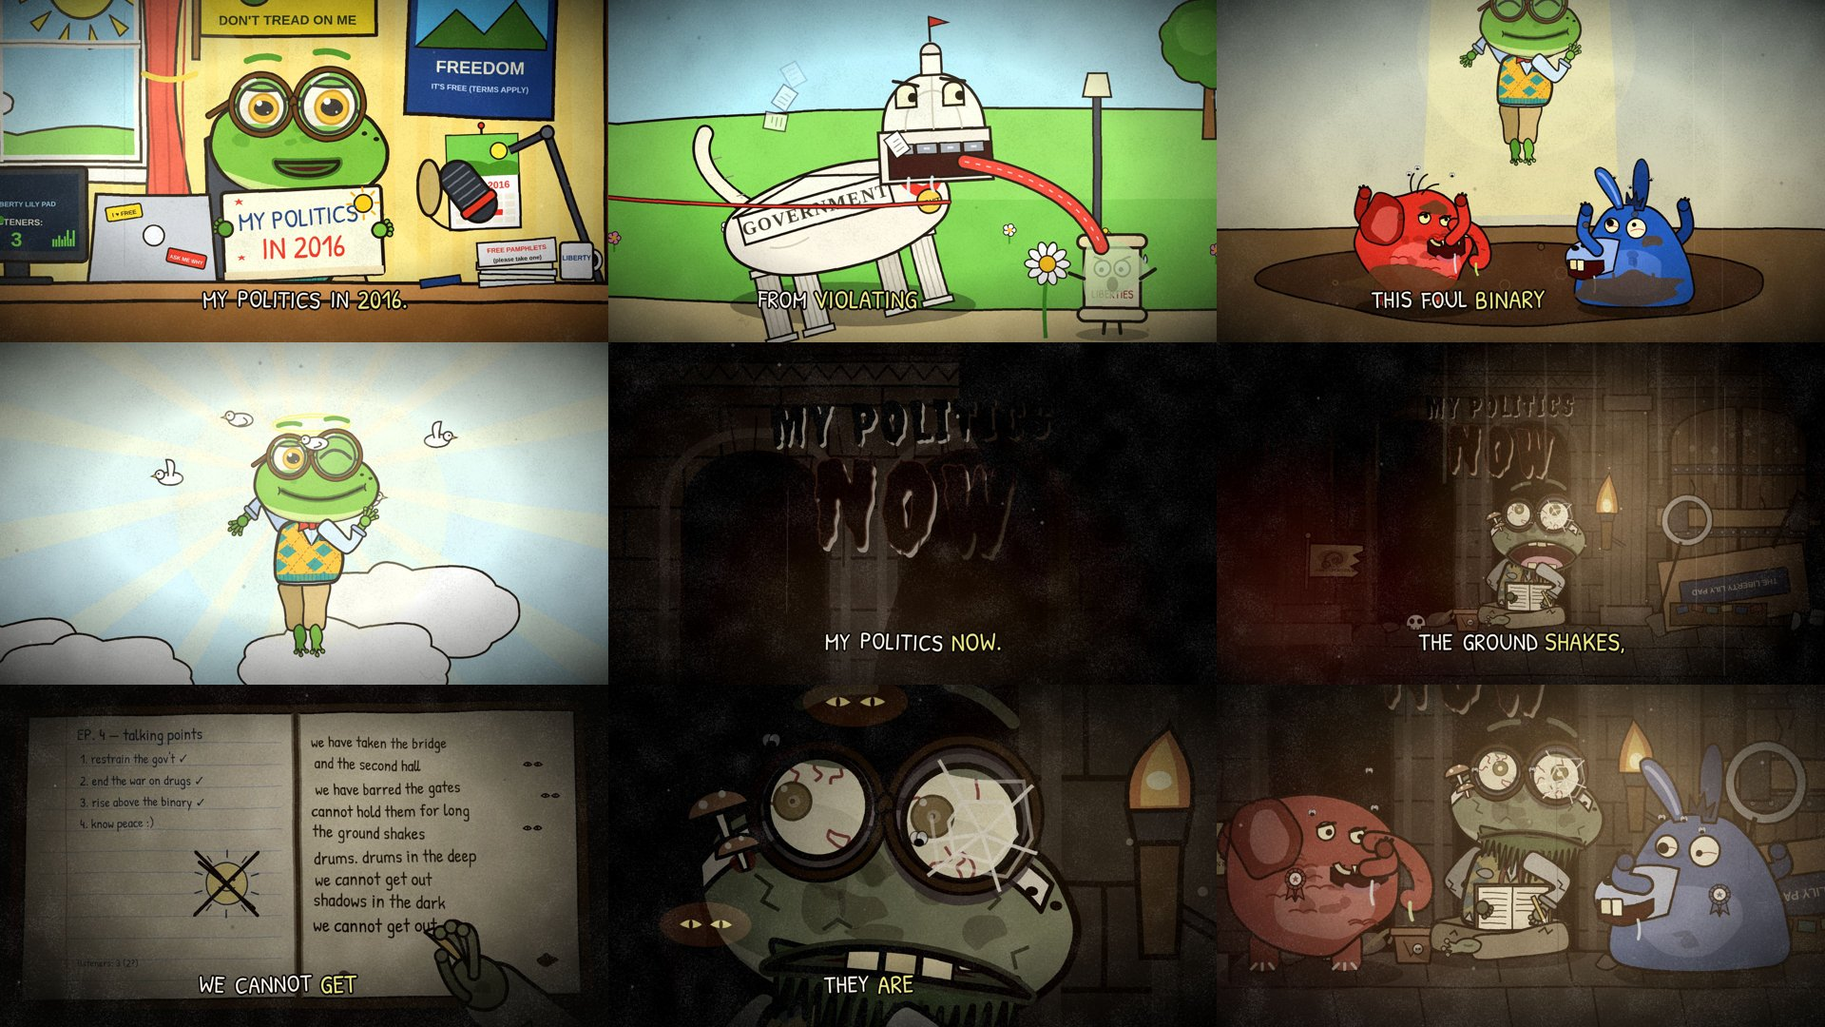
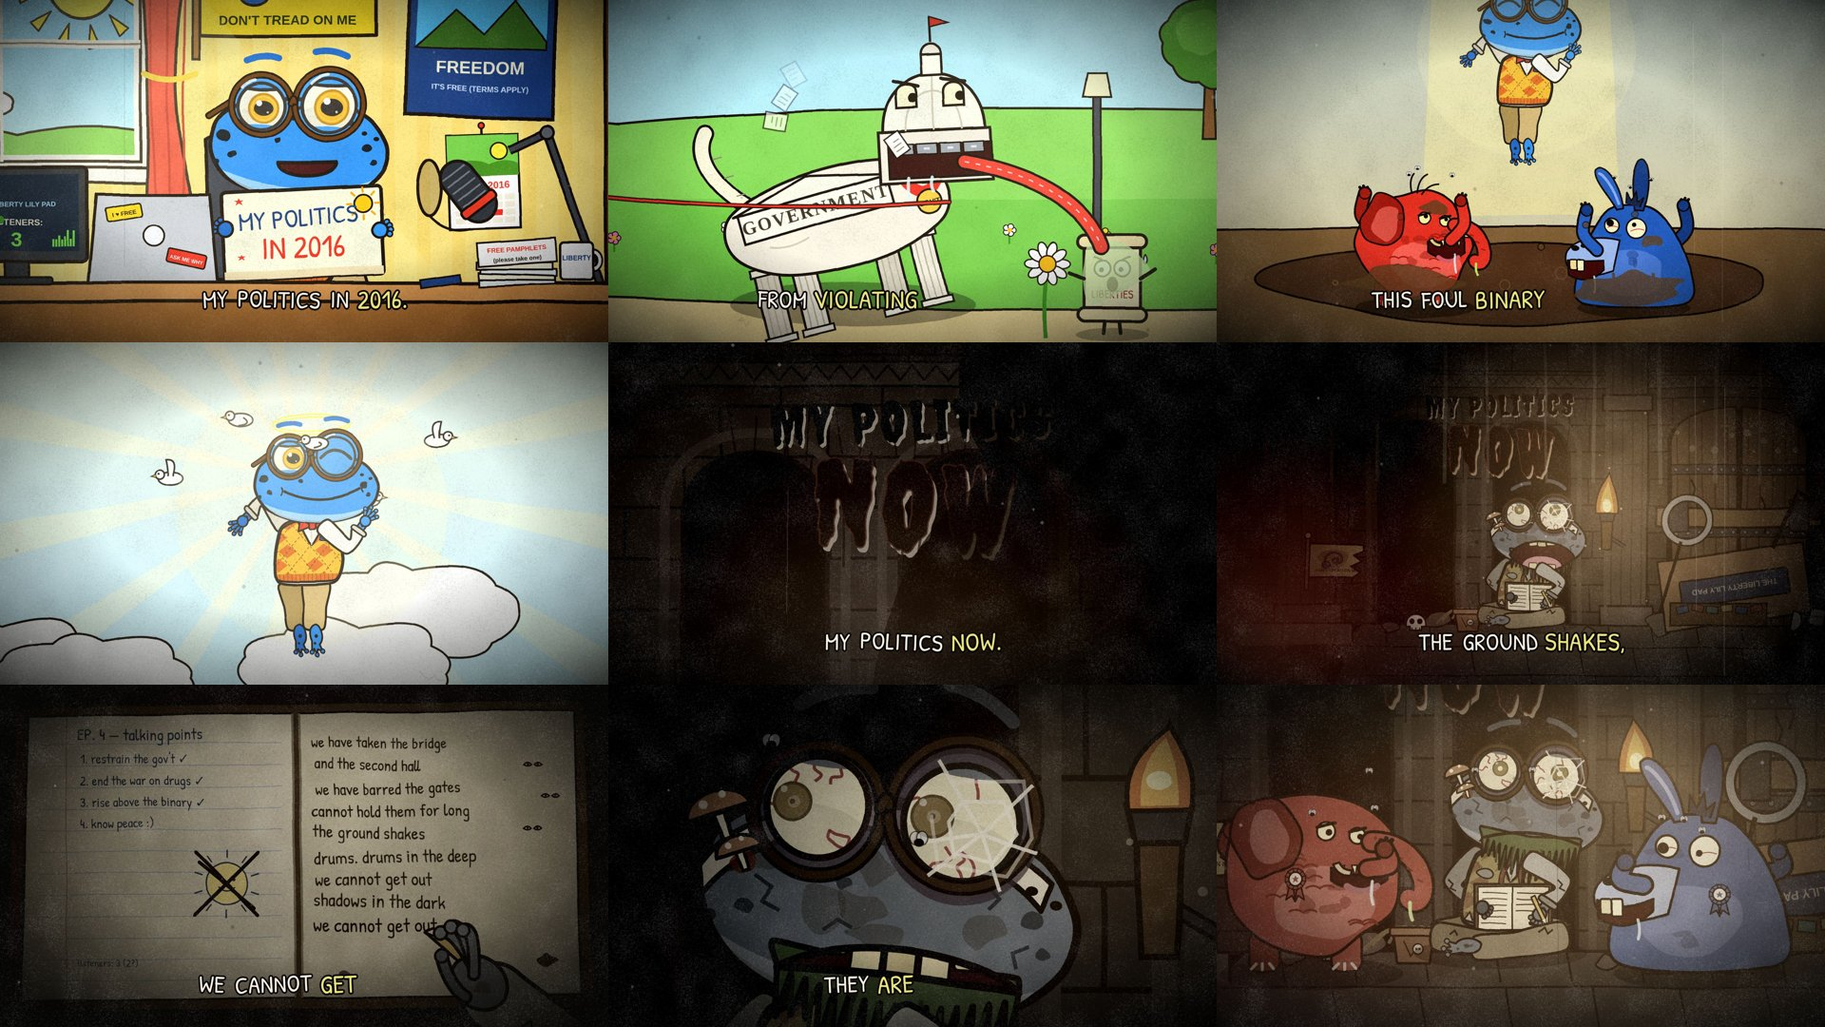
ep010: recolour Wendell as a blue poison-dart frog (meme-frog risk)
A bright green frog with heavy lips and half-lidded smug looks on a "my politics in 2016" title
reads as a well-known meme frog that some contexts list as a hate symbol. Reduce that risk:

- Then: cobalt-blue poison-dart frog with black spots (head, forearms, feet), pale-blue belly
  and throat sac; gold eyes, glasses and braces kept; white oxford shirt; argyle recoloured
  mustard / burnt orange / brown (no teal)
- Now: desaturated slate grey-blue skin; moss beard stays sickly green; mould, grime and the
  hall atmosphere unchanged
- no lip band (Mouth lip="none" -> thin ink-line mouth), mouth a little narrower
- no heavy-lidded / smirking looks in the 2016 half: "smug" and "disgust" removed; the sip is
  now earnest and wide-eyed, "are unjust" uses a new wide-eyed "stern", "lecture" opens the eyes
- matching details: the flag's tadpole and the poster frog are blue; the journal hand and the
  frog-from-behind silhouette are slate
- README cast notes + preview.jpg updated; shots, timing, sets and mascots unchanged

Claude-Session: https://claude.ai/code/session_01VqQTwjWtmaiMx9w225Yfgt

diff --git a/video/src/episodes/010-politics/cast/Frog.tsx b/video/src/episodes/010-politics/cast/Frog.tsx
@@ -5,10 +5,11 @@ import type { MouthShape } from "../../../engine/timeline";
 import { Pt, blob, onN, rnd, smoothPath } from "../../../engine/util";
 
 /**
- * WENDELL — an earnest bespectacled frog.
- * THEN (2016): bright green, round tortoiseshell glasses over bulging eyes, braces, an oxford shirt, a mustard-and-teal
- * argyle sweater vest, a red bow tie, khakis, webbed bare feet; a vocal sac that swells when he gets going.
- * NOW: the same frog after months underground — grey-olive dried-out skin, grime, hollow bloodshot eyes with pinprick
+ * WENDELL — an earnest bespectacled frog (a cobalt-blue poison-dart frog, on purpose not green).
+ * THEN (2016): cobalt blue with black spots, pale-blue belly and throat sac, round tortoiseshell glasses over bulging gold
+ * eyes, braces, a white oxford shirt, a mustard / burnt-orange argyle sweater vest, a red bow tie, khakis, webbed bare
+ * feet; a vocal sac that swells when he gets going. Wide-eyed and earnest, thin ink-line mouth (no lips).
+ * NOW: the same frog after months underground — dried-out slate-grey skin, grime, hollow bloodshot eyes with pinprick
  * pupils, one lens cracked, a matted moss beard, mushrooms sprouting from his scalp, a bandage, the vest in rags.
  * Faces right by default. Origin = floor between the feet (stand/float), the seat (sit), the floor under him (crouch:
  * sitting cross-legged).
@@ -17,10 +18,9 @@ import { Pt, blob, onN, rnd, smoothPath } from "../../../engine/util";
 export type FrogPose = "stand" | "sit" | "crouch" | "float";
 export type FrogExpr =
   | "earnest"
-  | "smug"
   | "proud"
   | "lecture"
-  | "disgust"
+  | "stern"
   | "serene"
   | "wink"
   | "shock"
@@ -76,41 +76,50 @@ export interface FrogProps {
 /* Palettes                                                            */
 /* ------------------------------------------------------------------ */
 
+// THEN: a cobalt-blue poison-dart frog with black spots and a pale-blue belly + throat sac (deliberately NOT green);
+// white oxford shirt, mustard / burnt-orange argyle. `lip: "none"` = no lip band, just a thin ink mouth line.
 const THEN = {
-  skin: "#7ab648",
-  skinDk: "#4e8a30",
-  belly: "#e1e8a6",
-  spot: "#5a9a36",
+  skin: "#3a8ddb",
+  skinDk: "#2160b2",
+  belly: "#b9dcf6",
+  spot: "#10151d",
+  sacLine: "#8cc0ea",
+  crack: "#1d4f8c",
   sclera: "#f7f2da",
   iris: "#e3aa28",
-  shirt: "#cfe1f2",
-  shirtDk: "#a5bcd4",
-  vest: "#e0b13c",
-  vestB: "#2e8c86",
-  vestLine: "#7a3a28",
+  shirt: "#f4f1e6",
+  shirtDk: "#d3cebd",
+  cuff: "#c4bfae",
+  vest: "#e2b443",
+  vestB: "#c8642a",
+  vestLine: "#5e3218",
   tie: "#cc3329",
   pants: "#c8b07c",
   pantsDk: "#a28a58",
   frame: "#5a3418",
-  lip: "#3d6e26",
+  lip: "none",
 };
+// NOW: the same frog gone desaturated slate / grey-blue (the moss beard stays a sickly green)
 const NOW = {
-  skin: "#6f7a50",
-  skinDk: "#475034",
-  belly: "#a6a682",
-  spot: "#535c38",
+  skin: "#5d6c7a",
+  skinDk: "#3d4956",
+  belly: "#98a4ae",
+  spot: "#232a32",
+  sacLine: "#7a8692",
+  crack: "#2a323b",
   sclera: "#f2e6b2",
   iris: "#8a6a2a",
   shirt: "#9c9d92",
   shirtDk: "#77786c",
+  cuff: "#6a6b60",
   vest: "#8c7838",
-  vestB: "#3c5a56",
+  vestB: "#7a4a2a",
   vestLine: "#4a2a1e",
   tie: "#6c2a22",
   pants: "#857452",
   pantsDk: "#65573c",
   frame: "#3a2412",
-  lip: "#353c26",
+  lip: "none",
 };
 
 interface ExprSpec {
@@ -125,12 +134,12 @@ interface ExprSpec {
   scream?: number;
 }
 
+// THEN expressions keep the eyes wide open (no heavy-lidded / smirking looks)
 const EXPR: Record<FrogExpr, ExprSpec> = {
-  earnest: { lidTop: 0.06, lidBottom: 0.04, lidAngle: 0, pupil: 1, smile: 0.4, brow: 0.8, browTilt: -6 },
-  smug: { lidTop: 0.46, lidBottom: 0.16, lidAngle: 8, pupil: 0.9, smile: 0.85, brow: 0.1, browTilt: 14 },
+  earnest: { lidTop: 0.04, lidBottom: 0.03, lidAngle: 0, pupil: 1, smile: 0.4, brow: 0.9, browTilt: -6 },
   proud: { lidTop: 0, lidBottom: 0, lidAngle: 0, pupil: 1, smile: 1.0, brow: 1.1, browTilt: -8, closed: "both" },
-  lecture: { lidTop: 0.24, lidBottom: 0.1, lidAngle: -6, pupil: 0.9, smile: 0.25, brow: 1.2, browTilt: -12 },
-  disgust: { lidTop: 0.42, lidBottom: 0.3, lidAngle: 16, pupil: 0.8, smile: -0.65, brow: -0.6, browTilt: 18 },
+  lecture: { lidTop: 0.04, lidBottom: 0.03, lidAngle: 0, pupil: 0.95, smile: 0.3, brow: 1.4, browTilt: -10 },
+  stern: { lidTop: 0.06, lidBottom: 0.05, lidAngle: 0, pupil: 0.9, smile: -0.45, brow: 0.4, browTilt: 16 },
   serene: { lidTop: 0, lidBottom: 0, lidAngle: 0, pupil: 1, smile: 0.6, brow: 1.0, browTilt: -6, closed: "both" },
   wink: { lidTop: 0.06, lidBottom: 0.04, lidAngle: 0, pupil: 1, smile: 0.95, brow: 0.9, browTilt: -4, closed: "near" },
   shock: { lidTop: 0, lidBottom: 0, lidAngle: 0, pupil: 0.45, smile: -0.4, brow: 1.7, browTilt: -6, scream: 1.15 },
@@ -395,7 +404,20 @@ export const Frog: React.FC<FrogProps> = ({
       lines.push(`M${-120 + k * 44},20 L${60 + k * 44},-200`);
       lines.push(`M${-120 + k * 44},-200 L${60 + k * 44},20`);
     }
-    const spots = Array.from({ length: 6 }).map((_, i) => blob(-74 + rnd(`${id}sp${i}`) * 110, -34 + rnd(`${id}spy${i}`) * 30, 6 + rnd(`${id}spr${i}`) * 7, 5 + rnd(`${id}spr2${i}`) * 5, 7, 0.25, `${id}spot${i}`));
+    // poison-dart spots: black, irregular, on the back of the head, the crown and the cheek (clear of eyes and mouth)
+    const spots = (
+      [
+        [-98, -12, 10, 8],
+        [-84, 14, 6, 5],
+        [-70, -34, 7, 6],
+        [-106, 24, 5, 4],
+        [0, -42, 6, 5],
+        [-22, -10, 5, 4],
+        [104, -4, 7, 6],
+        [114, 16, 4.5, 4],
+        [80, -38, 5, 4],
+      ] as Array<[number, number, number, number]>
+    ).map(([sx, sy, rx, ry], i) => blob(sx, sy, rx, ry, 7, 0.28, `${id}spot${i}`));
     const grime = Array.from({ length: 7 }).map((_, i) => blob(-90 + rnd(`${id}g${i}`) * 200, -40 + rnd(`${id}gy${i}`) * 90, 10 + rnd(`${id}gr${i}`) * 14, 7 + rnd(`${id}gr2${i}`) * 9, 8, 0.35, `${id}grime${i}`));
     const beard = (() => {
       const pts: Pt[] = [];
@@ -462,7 +484,11 @@ export const Frog: React.FC<FrogProps> = ({
       <g key={key}>
         <DLine d={`M${cuff0[0]},${cuff0[1]} L${h[0]},${h[1]}`} w={15} color={far ? C.skinDk : C.skin} ow={4} />
         <path d={taperPath([sh, el, cuff0], 40, 32)} fill={sleeve} stroke={INK} strokeWidth={5} strokeLinejoin="round" />
-        <path d={taperPath([cuff0, cuff], 36, 34)} fill={far ? "#8ea5bd" : C.shirtDk} stroke={INK} strokeWidth={4} />
+        <path d={taperPath([cuff0, cuff], 36, 34)} fill={far ? C.cuff : C.shirtDk} stroke={INK} strokeWidth={4} />
+        {/* two black spots on the bare forearm */}
+        {[0.4, 0.75].map((k, i) => (
+          <circle key={i} cx={cuff[0] + (h[0] - cuff[0]) * k} cy={cuff[1] + (h[1] - cuff[1]) * k} r={3.6} fill={C.spot} opacity={now ? 0.7 : 1} />
+        ))}
         {now ? <path d={`M${el[0] - 10},${el[1] - 4} l10,8 l-4,8 l12,4`} stroke={INK} strokeWidth={3} fill="none" /> : null}
       </g>
     );
@@ -481,6 +507,8 @@ export const Frog: React.FC<FrogProps> = ({
         ].map(([px, py], i) => (
           <circle key={i} cx={px} cy={py} r={5} fill={col} stroke={INK} strokeWidth={2.6} />
         ))}
+        <circle cx={12} cy={-2} r={4.5} fill={C.spot} opacity={now ? 0.7 : 1} />
+        <circle cx={28} cy={6} r={3} fill={C.spot} opacity={now ? 0.7 : 1} />
         {now ? <path d="M0,-6 q8,6 18,2" stroke="#2c2618" strokeWidth={4} fill="none" opacity={0.6} /> : null}
       </g>
     );
@@ -579,7 +607,7 @@ export const Frog: React.FC<FrogProps> = ({
     <g transform={headTr}>
       {/* vocal sac (behind the chin) */}
       <ellipse cx={14} cy={48 + sacIn * 16} rx={50 + sacIn * 22} ry={12 + sacIn * 24} fill={C.belly} stroke={INK} strokeWidth={4} />
-      {sacIn > 0.4 && !now ? <path d={`M-18,${62 + sacIn * 12} q32,${10 + sacIn * 6} 64,0`} stroke="#c7cf8a" strokeWidth={3} fill="none" /> : null}
+      {sacIn > 0.4 && !now ? <path d={`M-18,${62 + sacIn * 12} q32,${10 + sacIn * 6} 64,0`} stroke={C.sacLine} strokeWidth={3} fill="none" /> : null}
       {/* eye mounds */}
       <circle cx={-46} cy={-58} r={40} fill={C.skin} stroke={INK} strokeWidth={5} />
       <circle cx={48} cy={-62} r={46} fill={C.skin} stroke={INK} strokeWidth={5} />
@@ -590,14 +618,14 @@ export const Frog: React.FC<FrogProps> = ({
       {/* pale lower jaw + spots */}
       <path d="M-96,36 C-40,60 60,64 112,40 C100,58 60,72 10,72 C-40,72 -80,58 -96,36 Z" fill={C.belly} opacity={0.75} />
       {geo.spots.map((d, i) => (
-        <path key={i} d={d} fill={C.spot} opacity={0.75} />
+        <path key={i} d={d} fill={C.spot} opacity={now ? 0.75 : 1} />
       ))}
       {now ? (
         <g>
           {geo.grime.map((d, i) => (
             <path key={i} d={d} fill="#2c2618" opacity={0.3} />
           ))}
-          <path d="M-80,-6 l12,6 l-4,10 l12,4 M70,-24 l10,8 l-6,8 M-30,22 l8,-8 l10,4 M104,12 l-10,6 l4,10" stroke="#353c24" strokeWidth={2.5} fill="none" />
+          <path d="M-80,-6 l12,6 l-4,10 l12,4 M70,-24 l10,8 l-6,8 M-30,22 l8,-8 l10,4 M104,12 l-10,6 l4,10" stroke={C.crack} strokeWidth={2.5} fill="none" />
           {/* bandage band across the scalp, under the eyes */}
           <path d="M-116,-6 C-96,-46 -40,-66 0,-64 C40,-64 80,-54 112,-30 L108,-12 C80,-38 40,-48 0,-48 C-40,-48 -90,-28 -112,12 Z" fill="#d6ccb2" stroke={INK} strokeWidth={3.5} strokeLinejoin="round" />
           <path d={blob(-88, -14, 9, 7, 7, 0.3, `${id}blood`)} fill="#7a2a1e" opacity={0.85} />
@@ -665,7 +693,7 @@ export const Frog: React.FC<FrogProps> = ({
           seed={`${id}m${now ? "n" : "t"}`}
           x={22}
           y={28}
-          w={170}
+          w={158}
           maxOpen={70}
           shape={mouthShape}
           smile={e.smile}

diff --git a/video/src/episodes/010-politics/hall.tsx b/video/src/episodes/010-politics/hall.tsx
@@ -714,7 +714,7 @@ export const JournalInsert: React.FC<{ lines: number; from?: Cam; to?: Cam; shak
           <path d="M0,0 L5,-2 L4,4 Z" fill={INK} />
           <path d="M122,80 L138,92 L126,110 L110,98 Z" fill="#e08aa0" stroke={INK} strokeWidth={4} />
           {/* grey-green frog hand: palm, three fingers wrapped over the pencil, thumb under */}
-          <ellipse cx={92} cy={86} rx={52} ry={42} fill="#6f7a50" stroke={INK} strokeWidth={6} transform="rotate(32 92 86)" />
+          <ellipse cx={92} cy={86} rx={52} ry={42} fill="#5d6c7a" stroke={INK} strokeWidth={6} transform="rotate(32 92 86)" />
           {[
             [26, 2],
             [44, -8],
@@ -722,13 +722,13 @@ export const JournalInsert: React.FC<{ lines: number; from?: Cam; to?: Cam; shak
           ].map(([fx, fy], i) => (
             <g key={i}>
               <path d={`M84,${60 + i * 6} Q${fx + 20},${fy - 10} ${fx},${fy}`} stroke={INK} strokeWidth={24} strokeLinecap="round" fill="none" />
-              <path d={`M84,${60 + i * 6} Q${fx + 20},${fy - 10} ${fx},${fy}`} stroke="#6f7a50" strokeWidth={13} strokeLinecap="round" fill="none" />
-              <circle cx={fx} cy={fy} r={11} fill="#7c8858" stroke={INK} strokeWidth={4} />
+              <path d={`M84,${60 + i * 6} Q${fx + 20},${fy - 10} ${fx},${fy}`} stroke="#5d6c7a" strokeWidth={13} strokeLinecap="round" fill="none" />
+              <circle cx={fx} cy={fy} r={11} fill="#6b7a88" stroke={INK} strokeWidth={4} />
             </g>
           ))}
           <path d="M70,110 Q40,90 28,40" stroke={INK} strokeWidth={24} strokeLinecap="round" fill="none" />
-          <path d="M70,110 Q40,90 28,40" stroke="#5a6440" strokeWidth={13} strokeLinecap="round" fill="none" />
-          <circle cx={28} cy={40} r={11} fill="#6a7450" stroke={INK} strokeWidth={4} />
+          <path d="M70,110 Q40,90 28,40" stroke="#4a5866" strokeWidth={13} strokeLinecap="round" fill="none" />
+          <circle cx={28} cy={40} r={11} fill="#566572" stroke={INK} strokeWidth={4} />
           <path d={blob(100, 96, 18, 10, 7, 0.4, "handgrime")} fill="#2c2618" opacity={0.4} />
         </g>
       ) : null}
@@ -837,11 +837,11 @@ export const HallReverse: React.FC<{ eyes: number; near?: number; claws?: number
       <Claws t={t} amount={claws} />
       {/* the frog from behind: hunched back, eye bumps, mushrooms; lit by the torch on his right */}
       <g transform="translate(560 1080) scale(1.5)">
-        <path d="M-170,0 C-180,-120 -120,-200 -40,-210 L40,-210 C120,-200 180,-120 170,0 Z" fill="#3c4a3a" stroke={INK} strokeWidth={6} />
+        <path d="M-170,0 C-180,-120 -120,-200 -40,-210 L40,-210 C120,-200 180,-120 170,0 Z" fill="#5e5030" stroke={INK} strokeWidth={6} />
         <path d="M-150,-40 l20,-30 l20,24 l18,-30 l16,26 l20,-32 l18,28 l20,-26 l16,30 l20,-24" stroke={INK} strokeWidth={3} fill="none" opacity={0.6} />
-        <path d="M-120,-320 C-140,-240 -80,-200 0,-200 C80,-200 140,-240 120,-320 C100,-370 -100,-370 -120,-320 Z" fill="#4a5634" stroke={INK} strokeWidth={6} />
-        <circle cx={-64} cy={-356} r={44} fill="#4a5634" stroke={INK} strokeWidth={6} />
-        <circle cx={64} cy={-360} r={48} fill="#4a5634" stroke={INK} strokeWidth={6} />
+        <path d="M-120,-320 C-140,-240 -80,-200 0,-200 C80,-200 140,-240 120,-320 C100,-370 -100,-370 -120,-320 Z" fill="#4f5d6a" stroke={INK} strokeWidth={6} />
+        <circle cx={-64} cy={-356} r={44} fill="#4f5d6a" stroke={INK} strokeWidth={6} />
+        <circle cx={64} cy={-360} r={48} fill="#4f5d6a" stroke={INK} strokeWidth={6} />
         <path d="M-130,-300 C-90,-330 90,-334 132,-296" stroke="#c8bea4" strokeWidth={14} fill="none" />
         <g transform="translate(-100 -330) rotate(-30)">
           <path d="M-3,0 L-4,-20 L4,-20 L3,0 Z" fill="#c8bca0" stroke={INK} strokeWidth={3} />

diff --git a/video/src/episodes/010-politics/shots.tsx b/video/src/episodes/010-politics/shots.tsx
@@ -96,12 +96,12 @@ const TSign = () => {
 const TCuClassical = () => {
   const { shot } = useEpisode();
   const tilt = shot.t > T.classical - 0.1 ? Math.sin(P(shot.t, T.classical - 0.1, T.libEnd) * Math.PI) * -10 : 0;
-  return <StudioScene from={CAM_T.cu} to={{ ...CAM_T.cu, zoom: 2.7 }} frog={{ expr: shot.t < T.classical ? "earnest" : "smug", look: [0.3, 0.1], headTilt: tilt }} st={{ listeners: listenersAt(shot.t) }} />;
+  return <StudioScene from={CAM_T.cu} to={{ ...CAM_T.cu, zoom: 2.7 }} frog={{ expr: shot.t < T.classical ? "earnest" : "lecture", look: [0.3, 0.1], headTilt: tilt }} st={{ listeners: listenersAt(shot.t) }} />;
 };
 
 const TMonitor = () => {
   const { shot } = useEpisode();
-  return <StudioScene from={CAM_T.monitor} to={{ ...CAM_T.monitor, zoom: 3.4 }} frog={{ expr: "smug" }} st={{ listeners: listenersAt(shot.t) }} />;
+  return <StudioScene from={CAM_T.monitor} to={{ ...CAM_T.monitor, zoom: 3.4 }} frog={{ expr: "earnest" }} st={{ listeners: listenersAt(shot.t) }} />;
 };
 
 const PLeashWide = () => {
@@ -114,19 +114,19 @@ const PLeashClose = () => {
   const { shot } = useEpisode();
   const lick = easeOut(P(shot.t, T.violating - 0.1, T.violating + 0.5)) * (1 - easeInOut(P(shot.t, T.liberties, T.liberties + 0.3)));
   const yank = easeOut(P(shot.t, T.liberties - 0.05, T.liberties + 0.2));
-  return <LeashPark from={{ x: 1320, y: 700, zoom: 1.45 }} to={{ x: 1340, y: 700, zoom: 1.55 }} lunge={1 - yank * 0.7} lick={lick} yank={yank} frog={{ expr: yank > 0.3 ? "disgust" : "shock" }} />;
+  return <LeashPark from={{ x: 1320, y: 700, zoom: 1.45 }} to={{ x: 1340, y: 700, zoom: 1.55 }} lunge={1 - yank * 0.7} lick={lick} yank={yank} frog={{ expr: yank > 0.3 ? "stern" : "shock" }} />;
 };
 
 const TMsSip = () => {
   const { shot } = useEpisode();
   const sip = easeInOut(P(shot.local, 0.05, 0.3)) * (1 - easeInOut(P(shot.local, 0.45, 0.58)));
-  return <StudioScene from={CAM_T.ms} to={{ ...CAM_T.ms, zoom: 1.65 }} frog={{ hold: "mug", sip, expr: "smug", look: [0.5, 0.2] }} st={{ listeners: listenersAt(shot.t), mugOnDesk: false }} />;
+  return <StudioScene from={CAM_T.ms} to={{ ...CAM_T.ms, zoom: 1.65 }} frog={{ hold: "mug", sip, expr: "earnest", look: [0.55, 0.15] }} st={{ listeners: listenersAt(shot.t), mugOnDesk: false }} />;
 };
 
 const TCuUnjust = () => {
   const { shot } = useEpisode();
   const shakeHead = Math.sin(P(shot.t, T.unjust, T.unjustEnd + 0.2) * Math.PI * 4) * 9;
-  return <StudioScene from={CAM_T.cu} to={{ ...CAM_T.cu, zoom: 2.6 }} frog={{ hold: "constitution", expr: "disgust", headTilt: shakeHead, look: [0.4, 0.1] }} st={{ listeners: listenersAt(shot.t) }} />;
+  return <StudioScene from={CAM_T.cu} to={{ ...CAM_T.cu, zoom: 2.6 }} frog={{ hold: "constitution", expr: "stern", headTilt: shakeHead, look: [0.4, 0.1] }} st={{ listeners: listenersAt(shot.t) }} />;
 };
 
 const TCuAscend = () => {

diff --git a/video/src/episodes/010-politics/studio.tsx b/video/src/episodes/010-politics/studio.tsx
@@ -157,8 +157,8 @@ export const TadpoleFlag: React.FC<{ x: number; y: number; w?: number; t: number
       {/* coiled tadpole */}
       <g transform={`translate(${w * 0.5} ${h * 0.46}) scale(${w / 330})`}>
         <path d="M-60,30 C-90,0 -50,-50 0,-40 C50,-30 40,30 0,24 C-30,20 -24,-10 0,-8 C14,-6 14,8 4,8" stroke={INK} strokeWidth={14} fill="none" strokeLinecap="round" />
-        <path d="M-60,30 C-90,0 -50,-50 0,-40 C50,-30 40,30 0,24 C-30,20 -24,-10 0,-8 C14,-6 14,8 4,8" stroke="#3e6a2a" strokeWidth={8} fill="none" strokeLinecap="round" />
-        <ellipse cx={-62} cy={34} rx={26} ry={20} fill="#3e6a2a" stroke={INK} strokeWidth={5} />
+        <path d="M-60,30 C-90,0 -50,-50 0,-40 C50,-30 40,30 0,24 C-30,20 -24,-10 0,-8 C14,-6 14,8 4,8" stroke="#1f4f9a" strokeWidth={8} fill="none" strokeLinecap="round" />
+        <ellipse cx={-62} cy={34} rx={26} ry={20} fill="#1f4f9a" stroke={INK} strokeWidth={5} />
         <circle cx={-52} cy={28} r={5} fill="#f2cf3a" />
         <circle cx={-51} cy={28} r={2.5} fill={INK} />
       </g>
@@ -235,7 +235,7 @@ const Posters: React.FC<{ t: number }> = ({ t }) => (
       <rect x={14} y={14} width={222} height={170} fill="#5cb6ee" />
       <path d="M14,184 L80,120 L130,160 L180,100 L236,170 L236,184 Z" fill="#3e6a2a" stroke={INK} strokeWidth={3} />
       {/* a frog on a mountain top, arms raised */}
-      <circle cx={180} cy={84} r={14} fill="#7ab648" stroke={INK} strokeWidth={3} />
+      <circle cx={180} cy={84} r={14} fill="#3a8ddb" stroke={INK} strokeWidth={3} />
       <path d="M170,96 l-12,-20 M190,96 l12,-20" stroke={INK} strokeWidth={4} />
       <text x={125} y={226} textAnchor="middle" fontFamily={FONT} fontWeight={900} fontSize={30} fill="#f6efd8">
         FREEDOM

diff --git a/episodes/010-politics/README.md b/episodes/010-politics/README.md
@@ -11,14 +11,18 @@
 | **Code** | `video/src/episodes/010-politics/` — `studio.tsx` (2016 podcast set), `cutaways.tsx` (2016 gags), `hall.tsx` (the underground hall, journal, the deep, the tail), `cast/Frog.tsx`, `cast/Mascots.tsx`, `shots.tsx`, `tl.ts` (timeline + extras), `timeline.json`, `audio_fx.json` |
 
 **Cast (new, in `video/src/episodes/010-politics/cast/`):**
-- **Wendell** (`Frog.tsx`) — an earnest bespectacled frog. *Then:* bright green, round tortoiseshell glasses over bulging
-  gold eyes, braces, an oxford shirt, a mustard-and-teal argyle sweater vest, a red bow tie, khakis, webbed bare feet, a
-  pocket constitution in his vest pocket and a vocal sac that swells when he gets going. *Now:* the same frog after
-  months underground — grey-olive cracked skin and grime, hollow bloodshot eyes with pinprick pupils, one lens
-  spider-webbed, a matted moss beard, mushrooms sprouting from his scalp, a bloodied bandage, the vest in rags, the bow
-  tie hanging undone. Rig: 14 expressions, blinks, paranoid eye darts (now), tremble, IK arms, poses (stand / sit at the
-  desk / cross-legged on the floor / float), props (the title sign, LIBERTY mug, pocket constitution, journal + pencil,
-  leash), halo, glints, sweat and tears.
+- **Wendell** (`Frog.tsx`) — an earnest bespectacled frog: a cobalt-blue poison-dart frog. *Then:* cobalt blue with black
+  spots, a pale-blue belly and throat sac, round tortoiseshell glasses over bulging gold eyes, braces, a white oxford
+  shirt, a mustard / burnt-orange argyle sweater vest, a red bow tie, khakis, webbed bare feet, a pocket constitution in
+  his vest pocket and a vocal sac that swells when he gets going; always wide-eyed and earnest, with a thin ink-line
+  mouth. *Now:* the same frog after months underground — slate-grey cracked skin and grime, hollow bloodshot eyes with
+  pinprick pupils, one lens spider-webbed, a matted (sickly green) moss beard, mushrooms sprouting from his scalp, a
+  bloodied bandage, the vest in rags, the bow tie hanging undone. Rig: 14 expressions, blinks, paranoid eye darts (now),
+  tremble, IK arms, poses (stand / sit at the desk / cross-legged on the floor / float), props (the title sign, LIBERTY
+  mug, pocket constitution, journal + pencil, leash), halo, glints, sweat and tears.
+  *Why blue:* a bright green frog with heavy lips and half-lidded smug looks on a "my politics in 2016" title reads as a
+  well-known meme frog that some contexts list as a hate symbol. Wendell is deliberately a blue poison-dart frog with no
+  lips and no heavy-lidded / smirking expressions in the 2016 half.
 - **The foul binary system** (`Mascots.tsx`) — two invented, equally grotesque party mascots: the **Tusker** (a bloated
   red, wrinkled, elephant-ish blob with a snotty trunk and broken tusks) and the **Brayer** (a saggy blue, donkey-ish
   blob with floppy ears, mismatched bulging eyes and enormous buck teeth). Mud, drool, flies, campaign rosettes.
